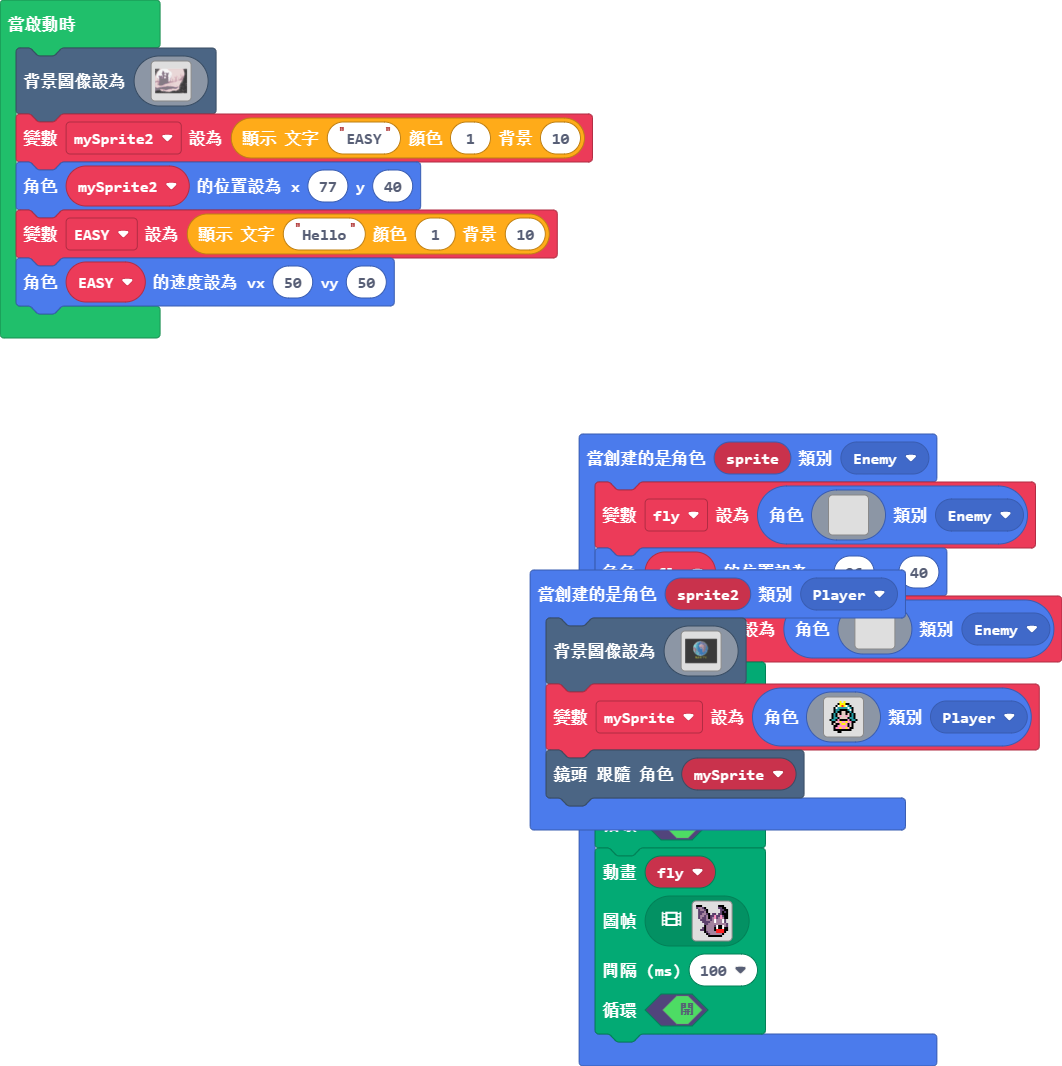
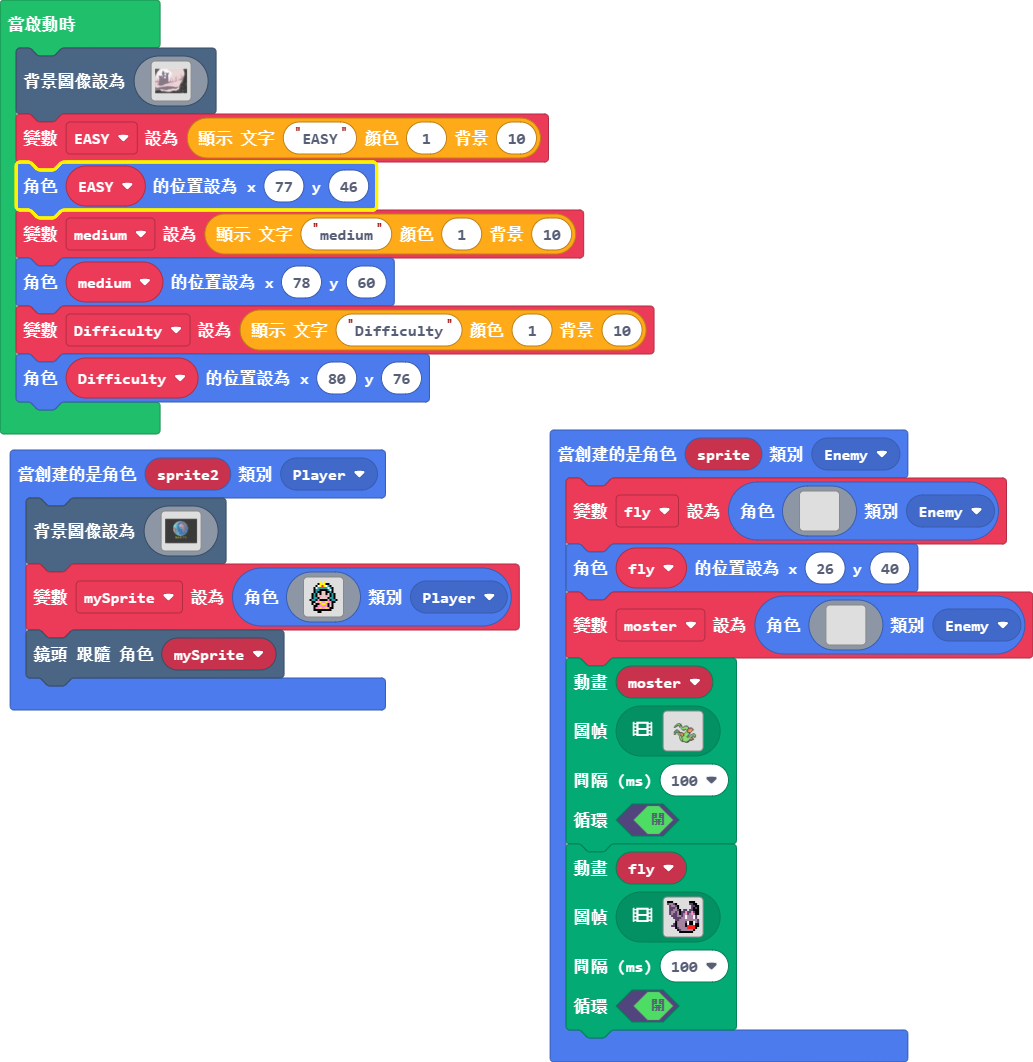
更新 main.blocks, main.ts

Changed region(s): [[0.0, 0.0, 1.0, 1.0], [0.0, 0.0, 0.0929, 0.0311], [0.8674, 0.9633, 0.8984, 1.0]]

diff --git a/main.ts b/main.ts
@@ -538,7 +538,9 @@ scene.setBackgroundImage(img`
     fffffffffffffffffffffffffffffffffffffffffffffffffffffffffffffffffffffffffffffffffffffffffffffffffffffffffffffffffffffffffffffbffffbffffdfffcddcfffffffffffffffff
     fffffffffffffffffffffffffffffffffbffffffbffffffffffffffffffffffbfcffffcfffffffffffffffcffffffffffffffffffffffffffffffffffffffffffffffffffffdddffffffffffccffffff
     `)
-let mySprite2 = 自訂文字.顯示文字("EASY", 1, 10)
-mySprite2.setPosition(77, 40)
-let EASY = 自訂文字.顯示文字("Hello", 1, 10)
-EASY.setVelocity(50, 50)
+let EASY = 自訂文字.顯示文字("EASY", 1, 10)
+EASY.setPosition(77, 46)
+let medium = 自訂文字.顯示文字("medium", 1, 10)
+medium.setPosition(78, 60)
+let Difficulty = 自訂文字.顯示文字("Difficulty", 1, 10)
+Difficulty.setPosition(80, 76)
